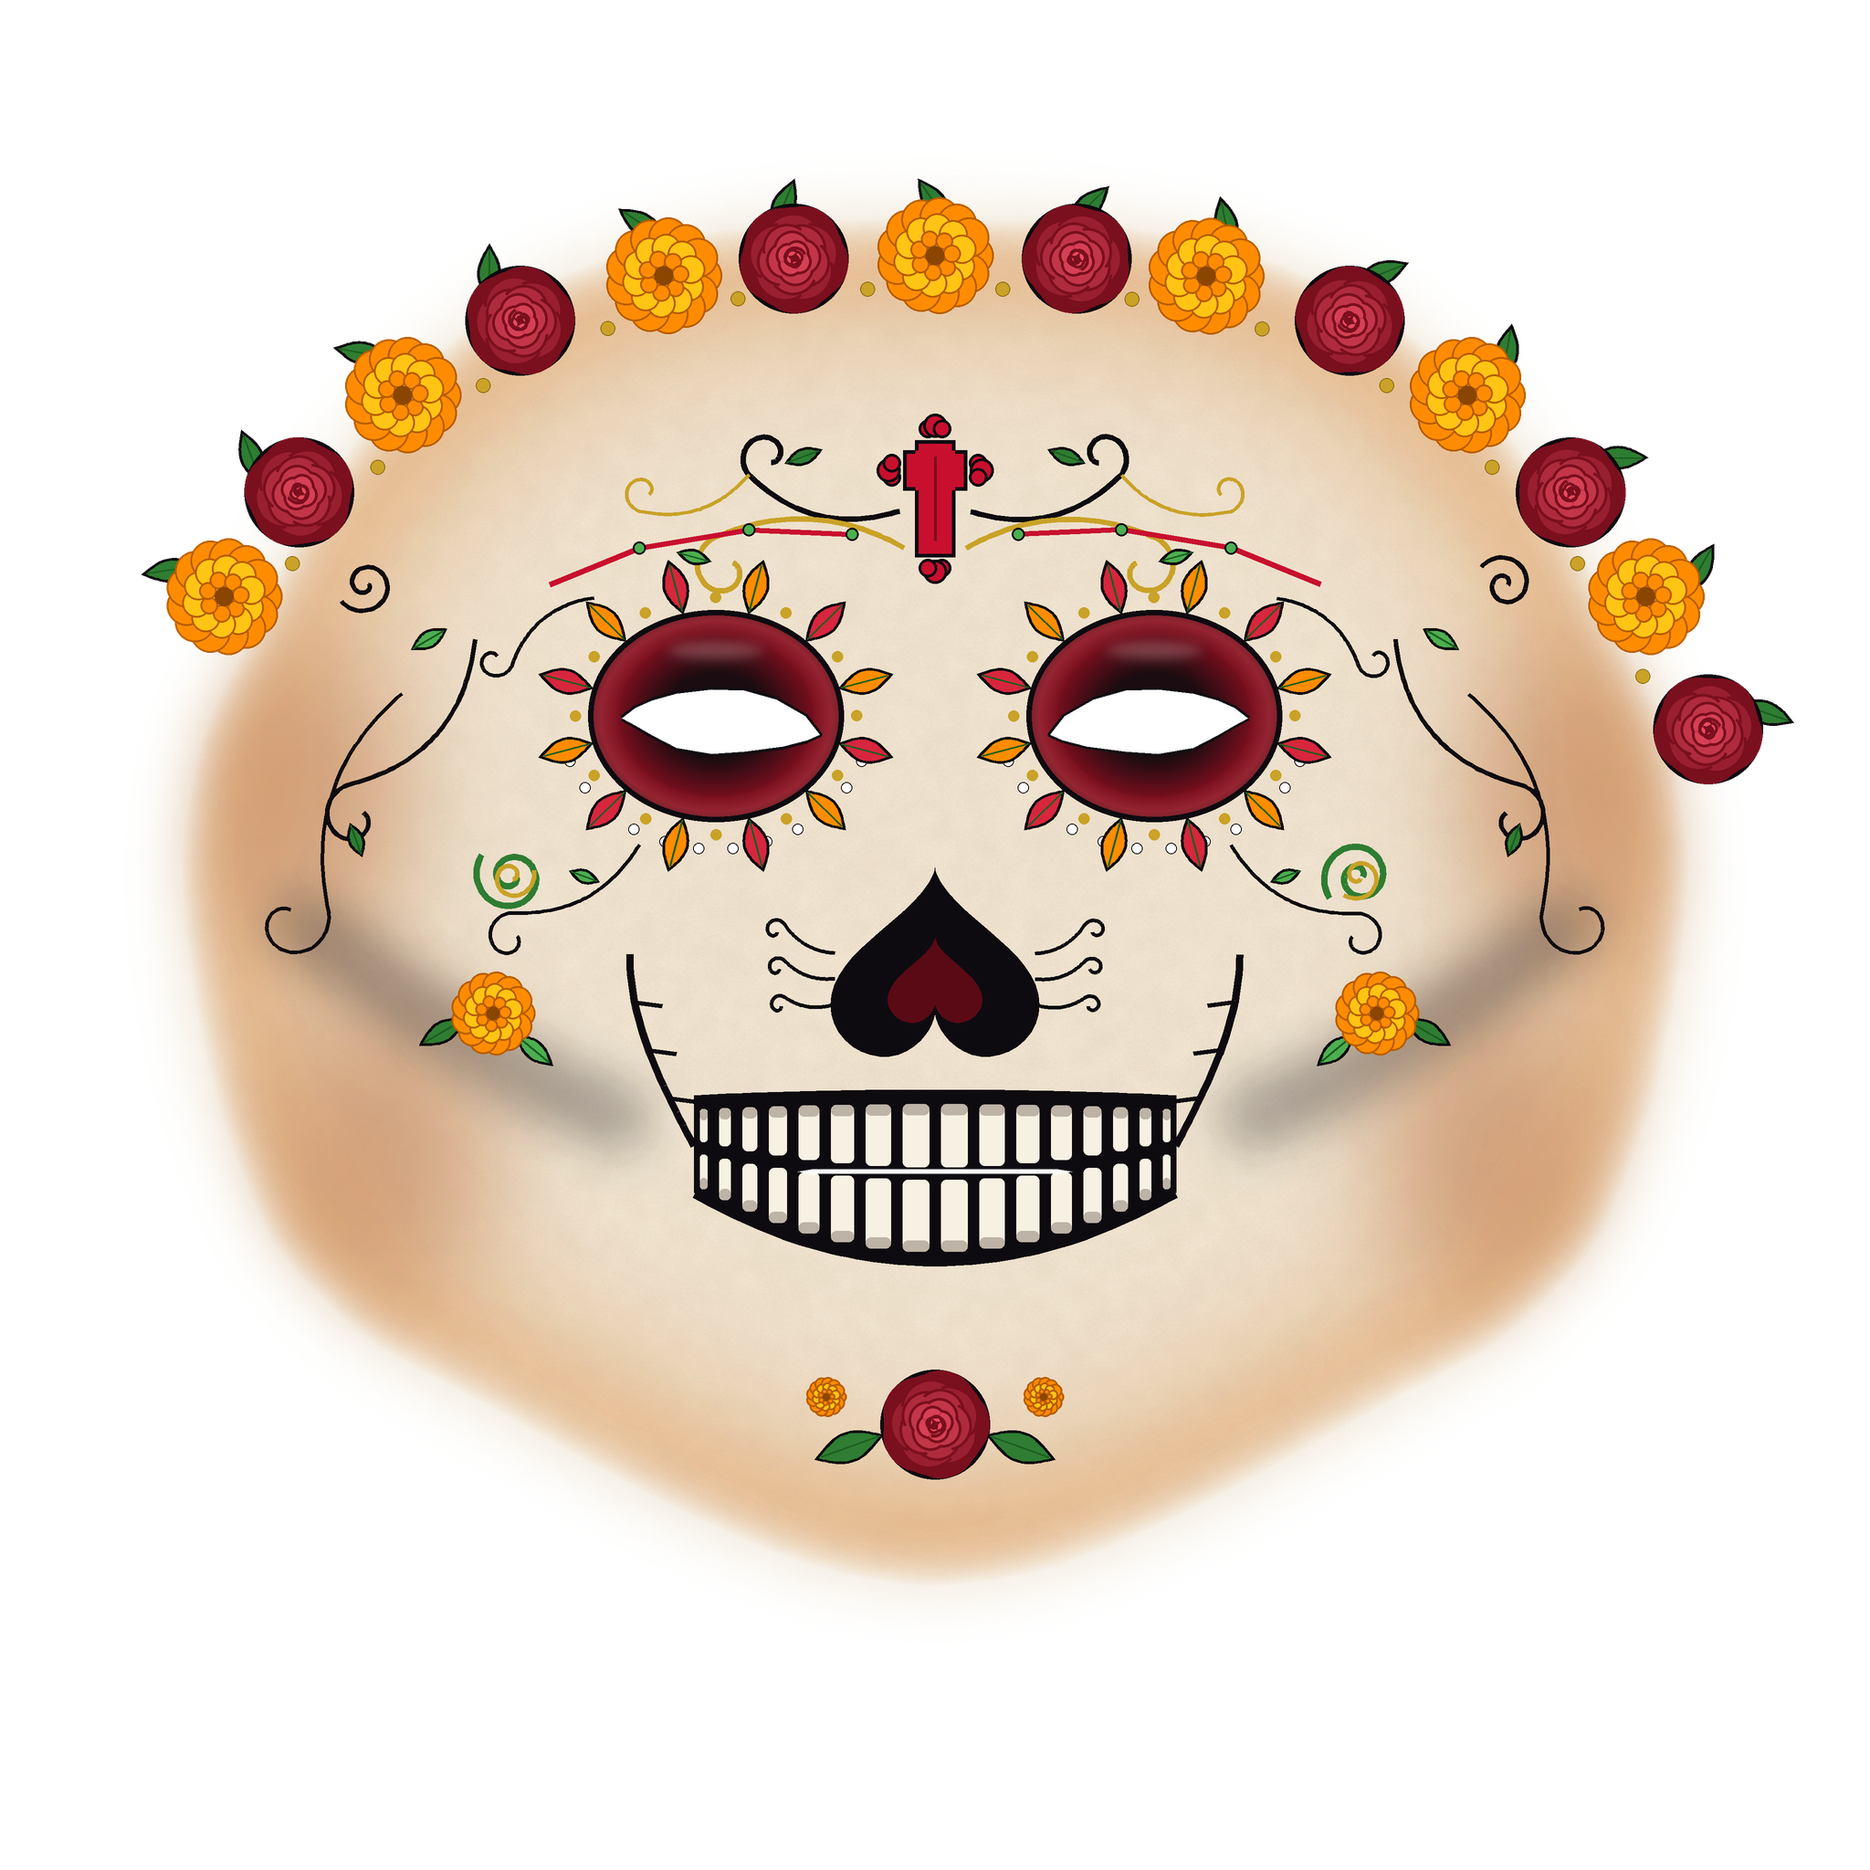
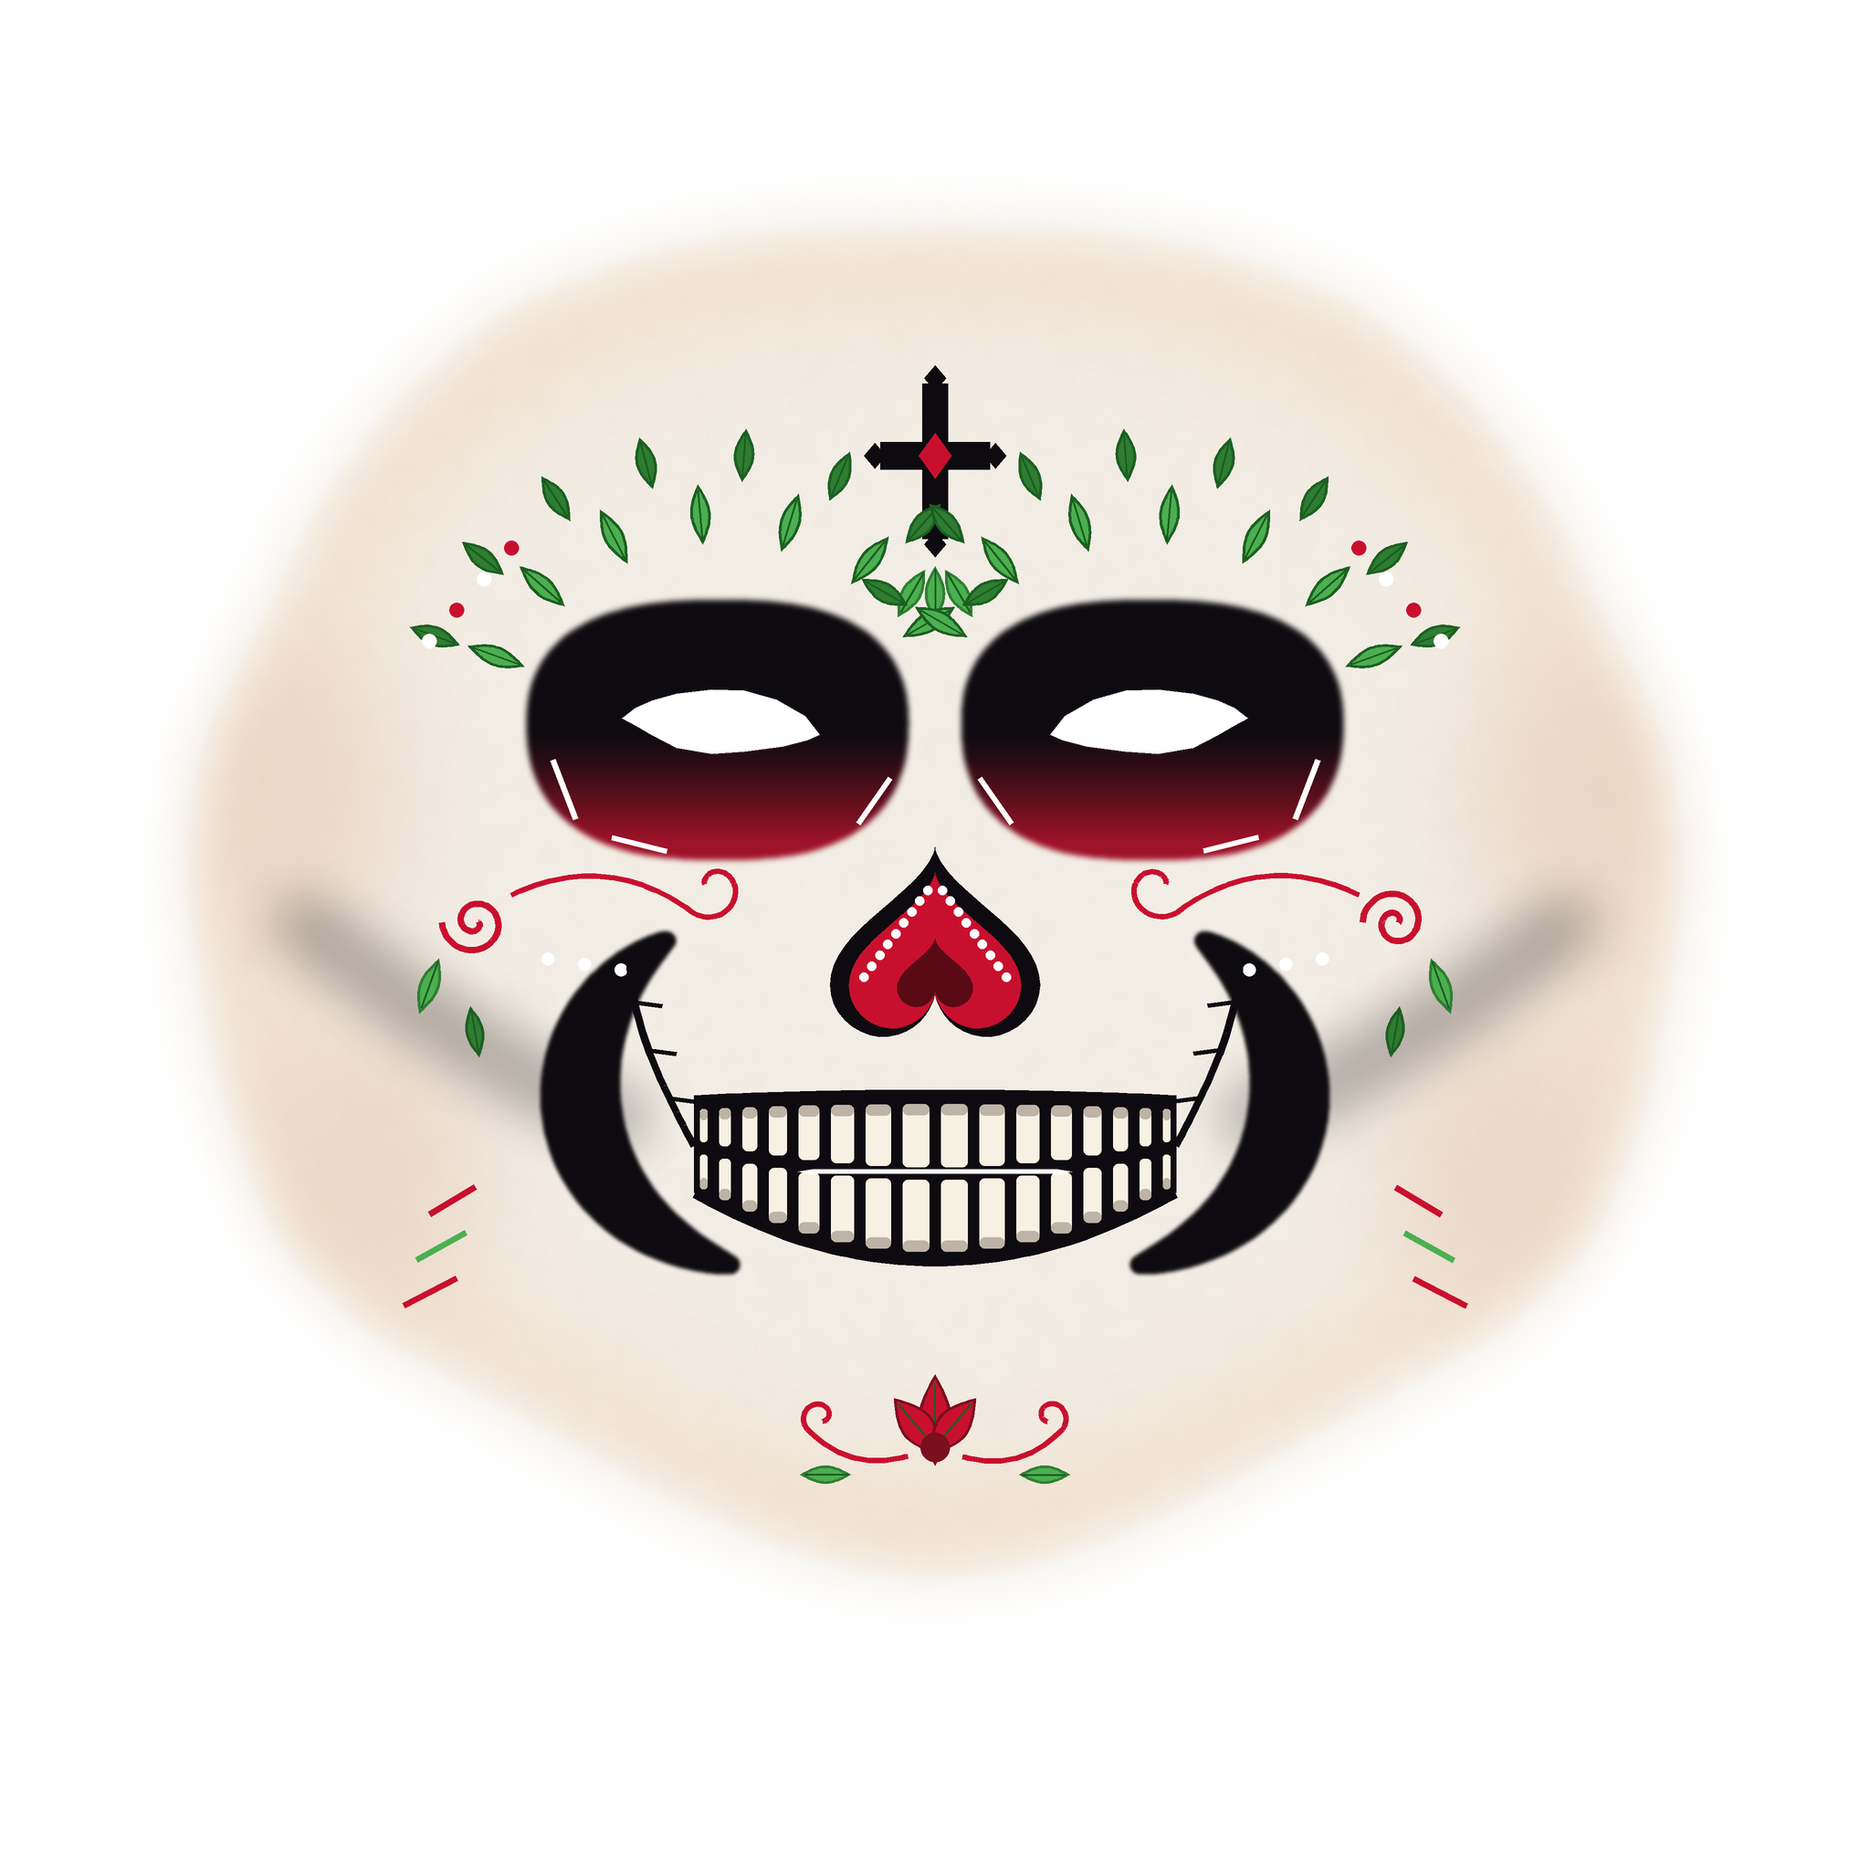
Nuevo diseño del catrín según la referencia y base más translúcida

diff --git a/tools/generar_texturas_catrines.py b/tools/generar_texturas_catrines.py
@@ -264,7 +264,14 @@ def capa_color(color, alfa):
 
 
 # ---------- elementos comunes ----------
-def base(l, color_base, intensidad_ocre):
+def base(l, color_base, intensidad_ocre, opacidad=None):
+    """Base de la calavera. opacidad < 1 deja ver más el tono de la piel."""
+    capa = Lienzo()
+    _base(capa, color_base, intensidad_ocre)
+    l.pegar(capa.img, OPACIDAD_BASE if opacidad is None else opacidad)
+
+
+def _base(l, color_base, intensidad_ocre):
     # llega hasta el borde de la cara y se desvanece suave, sin línea dura
     # en la frente sube más (hasta el nacimiento del pelo) para que no se vea cortada
     borde = []
@@ -273,7 +280,7 @@ def base(l, color_base, intensidad_ocre):
         t = 0.28 + 0.42 * w
         borde.append(lerp(p(o), p(a), t * 2) if t <= 0.5 else lerp(p(a), p(e), (t - 0.5) * 2))
     m = mascara_poligono(borde, 34 * K)
-    l.pegar(capa_color(color_base, m.point(lambda v: int(v * OPACIDAD_BASE))))
+    l.pegar(capa_color(color_base, m))
     # franja de sombreado ocre hacia el contorno (~120 px)
     interior = m.filter(ImageFilter.GaussianBlur(110 * K))
     banda = ImageChops.subtract(m, interior).point(lambda v: min(255, int(v * 2.2 * intensidad_ocre)))
@@ -325,7 +332,7 @@ def contorno_negro(l, hueco_corona=None):
     d.line(oval + oval[:1], fill=NEGRO[:3] + (200,), width=5 * K, joint="curve")
 
 
-def mejillas_hundidas(l):
+def mejillas_hundidas(l, fuerza=0.4):
     capa = l.capa()
     d = ImageDraw.Draw(capa)
     for lado in (1, -1):
@@ -335,10 +342,10 @@ def mejillas_hundidas(l):
         d.line(pts, fill=GRIS_MEJILLA, width=60 * K, joint="curve")
         elipse(d, q(X(330), 1010), 28 * K, 28 * K, fill=GRIS_MEJILLA)
     capa = capa.filter(ImageFilter.GaussianBlur(26 * K))
-    l.pegar(capa, 0.4)
+    l.pegar(capa, fuerza)
 
 
-OPACIDAD_BASE = 0.9   # la base deja ver un poco la piel
+OPACIDAD_BASE = 0.8   # la base deja ver la piel
 
 CUENCA_RX, CUENCA_RY = 140, 116   # tamaño de las cuencas (px de 2048)
 CUENCA_Y = 784
@@ -555,108 +562,145 @@ def guardar(l, nombre):
 
 # ---------- variantes ----------
 def catrin():
+    """Catrín: cuencas negras con rojo abajo, cruz negra con hojas verdes en la
+    frente, nariz de corazón rojo con puntitos, dientes grandes y mejillas
+    oscuras con filigrana roja y verde. Sin flores."""
     l = Lienzo()
-    base(l, HUESO, 1.25)
-    mejillas_hundidas(l)
-    filigrana_comun(l)
-    cuencas(l, festonear=False)
-    perlas_cuencas(l)
-    nariz(l)
+    base(l, hexa("EDE6DA"), 0.6, opacidad=0.6)
+    mejillas_hundidas(l, 0.35)
+    cuencas_catrin(l)
+    frente_catrin(l)
+    mejillas_catrin(l)
+    nariz_catrin(l)
     dientes(l)
-
-    capa = l.capa()
-    d = ImageDraw.Draw(capa)
-    # corona de pétalos alrededor de cada cuenca: rojo y naranja alternados
-    for cx in (784, 1264):
-        n = 12
-        for k in range(n):
-            a = 2 * math.pi * k / n + math.pi / n
-            bx, by = cx + math.cos(a) * (CUENCA_RX + 30), CUENCA_Y + math.sin(a) * (CUENCA_RY + 30)
-            hoja(d, q(bx, by), 62 * K, 28 * K, a, ROJO_PETALO if k % 2 == 0 else CEMPA)
-            ax, ay = cx + math.cos(a + math.pi / n) * (CUENCA_RX + 14), CUENCA_Y + math.sin(a + math.pi / n) * (CUENCA_RY + 14)
-            elipse(d, q(ax, ay), 6 * K, 6 * K, fill=DORADO)
-    # cruz latina roja con puntas de flor de lis
-    cx, top, bot = 1024, 470, 622
-    brazo_y = 515
-    w = 22
-    cruz = [(cx - w, top + 12), (cx + w, top + 12), (cx + w, brazo_y - w), (cx + 35 + 0, brazo_y - w),
-            (cx + 35, brazo_y + w), (cx + w, brazo_y + w), (cx + w, bot - 12), (cx - w, bot - 12),
-            (cx - w, brazo_y + w), (cx - 35, brazo_y + w), (cx - 35, brazo_y - w), (cx - w, brazo_y - w)]
-    d.polygon([q(*pt) for pt in cruz], fill=ROJO, outline=NEGRO, width=4 * K)
-    for (px, py, ang) in ((cx, top + 6, -90), (cx, bot - 6, 90), (cx - 41, brazo_y, 180), (cx + 41, brazo_y, 0)):
-        a = math.radians(ang)
-        for da in (-50, 0, 50):
-            b = a + math.radians(da)
-            r = 13 if da == 0 else 10
-            c = q(px + math.cos(b) * 10, py + math.sin(b) * 10)
-            elipse(d, c, r * K, r * K, fill=ROJO, outline=NEGRO, width=3 * K)
-    d.line([q(cx, top + 30), q(cx, bot - 30)], fill=ROJO_OSCURO, width=3 * K)
-    # volutas negras y doradas a los lados de la cruz, siguiendo las cejas
-    for lado in (1, -1):
-        def Q(x, y):
-            return q(x if lado == 1 else FINAL - x, y)
-        voluta(d, Q(985, 560), Q(820, 520), -0.3 * lado, NEGRO, 6 * K, sentido=lado)
-        voluta(d, Q(990, 600), Q(780, 590), 0.25 * lado, DORADO, 6 * K, sentido=-lado)
-        voluta(d, Q(820, 520), Q(700, 560), -0.3 * lado, DORADO, 4 * K, sentido=lado)
-        hoja(d, Q(880, 500), 44 * K, 19 * K, math.radians(-20 if lado == 1 else 200), VERDE)
-        hoja(d, Q(760, 610), 40 * K, 17 * K, math.radians(15 if lado == 1 else 165), VERDE_CLARO)
-        # filigrana roja y verde sobre cada ceja
-        ceja = [Q(602, 640), Q(700, 600), Q(820, 580), Q(933, 585)]
-        d.line(ceja, fill=ROJO, width=6 * K, joint="curve")
-        for k, pt in enumerate(ceja[1:]):
-            elipse(d, pt, 7 * K, 7 * K, fill=VERDE_CLARO, outline=NEGRO, width=2 * K)
-        # espiral verde y dorada en el pómulo
-        espiral(d, Q(560, 960), 40 * K, 1.6, VERDE, 7 * K, sentido=lado)
-        espiral(d, Q(560, 960), 26 * K, 1.2, DORADO, 5 * K, sentido=-lado, ang0=1.0)
-    l.pegar(capa)
-
-    # barbilla: rosa con hojas y cempasúchiles
-    capa = l.capa()
-    d = ImageDraw.Draw(capa)
-    hoja(d, q(930, 1585), 80 * K, 34 * K, math.radians(160))
-    hoja(d, q(1118, 1585), 80 * K, 34 * K, math.radians(20))
-    l.pegar(capa)
-    rosa(l, q(1024, 1560), 60 * K)
-    d = ImageDraw.Draw(l.img)
-    cempasuchil(d, q(905, 1530), 22 * K)
-    cempasuchil(d, q(1143, 1530), 22 * K)
-
-    # pómulos: cempasúchil con hojas
-    d = ImageDraw.Draw(l.img)
-    for lado in (1, -1):
-        x = 540 if lado == 1 else FINAL - 540
-        hoja(d, q(x - lado * 55, 1130), 60 * K, 24 * K, math.radians(150 if lado == 1 else 30))
-        hoja(d, q(x + lado * 45, 1150), 54 * K, 22 * K, math.radians(40 if lado == 1 else 140), VERDE_CLARO)
-        cempasuchil(d, q(x, 1110), 46 * K)
-
-    corona_catrin(l)
+    barbilla_catrin(l)
     huecos(l)
     return guardar(l, "textura_catrin.png")
 
 
-def corona_catrin(l):
-    """Banda de cempasúchiles y rosas rojas en la frente alta, con hojas y oro."""
-    arco = list(range(30, 36)) + list(range(0, 8))
+def cuencas_catrin(l):
+    """Cuencas anchas casi cuadradas: negras arriba y rojas en la parte de abajo."""
+    for lado in (1, -1):
+        cx, cy, rx, ry = (790 if lado == 1 else FINAL - 790), 792, 205, 150
+        pts = []
+        for t in range(160):
+            a = 2 * math.pi * t / 160
+            c, s_ = math.cos(a), math.sin(a)
+            x = math.copysign(abs(c) ** 0.75, c) * rx * (1.04 if c * lado < 0 else 1.0)
+            y = math.copysign(abs(s_) ** 0.85, s_) * ry * (0.9 if s_ < 0 else 1.0)
+            pts.append(q(cx + x, cy + y))
+        m = mascara_poligono(pts, 3 * K)
+        yy = np.arange(S, dtype=np.float32)[:, None] / K
+        t = np.clip((yy - (cy + 10)) / 120, 0, 1)
+        negro = np.array(NEGRO[:3], np.float32)
+        rojo = np.array(hexa("B0142C")[:3], np.float32)
+        col = negro + (rojo - negro) * (t ** 1.2)[..., None] * 0.9
+        col = np.broadcast_to(col, (S, 1, 3))
+        capa = Image.fromarray(np.repeat(col, S, axis=1).astype(np.uint8), "RGB").convert("RGBA")
+        capa.putalpha(m)
+        l.pegar(capa)
+        # brillos blancos en las orillas de abajo
+        d = ImageDraw.Draw(l.img)
+        for x0, y0, x1, y1 in ((-185, 40, -160, 105), (-120, 125, -60, 140), (150, 110, 185, 60)):
+            d.line([q(cx + x0 * lado, cy + y0), q(cx + x1 * lado, cy + y1)], fill=BLANCO, width=6 * K)
 
-    def en_anillo(k, t):
-        o, a, e = p(OVALO[k]), p(ANILLO1[k]), p(EXTERNO[k])
-        return lerp(o, a, t * 2) if t <= 0.5 else lerp(a, e, (t - 0.5) * 2)
 
+def frente_catrin(l):
     d = ImageDraw.Draw(l.img)
-    for j, k in enumerate(arco):
-        c = en_anillo(k, 0.55)
-        ang = math.atan2(c[1] - S / 2, c[0] - S / 2)
-        hoja(d, en_anillo(k, 0.78), 66 * K, 26 * K, ang + 0.6 * (1 if j % 2 else -1))
-    for j, k in enumerate(arco):
-        c = en_anillo(k, 0.5)
-        if j % 2 == 0:
-            cempasuchil(ImageDraw.Draw(l.img), c, 64 * K)
-        else:
-            rosa(l, c, 60 * K, ang=j * 0.8)
+    # cruz negra con rombo rojo al centro
+    cx, cy = 1024, 500
+    d.polygon([q(cx - 14, cy - 80), q(cx + 14, cy - 80), q(cx + 14, cy - 16), q(cx + 60, cy - 16),
+               q(cx + 60, cy + 14), q(cx + 14, cy + 14), q(cx + 14, cy + 90), q(cx - 14, cy + 90),
+               q(cx - 14, cy + 14), q(cx - 60, cy + 14), q(cx - 60, cy - 16), q(cx - 14, cy - 16)],
+              fill=NEGRO)
+    for px, py in ((cx, cy - 86), (cx, cy + 96), (cx - 66, cy - 1), (cx + 66, cy - 1)):
+        d.polygon([q(px, py - 14), q(px + 12, py), q(px, py + 14), q(px - 12, py)], fill=NEGRO)
+    d.polygon([q(cx, cy - 26), q(cx + 18, cy - 1), q(cx, cy + 24), q(cx - 18, cy - 1)], fill=ROJO)
+    # hojitas verdes bajo la cruz, entre las cejas
+    for ang, dx in ((90, 0), (120, -26), (60, 26)):
+        hoja(d, q(cx + dx, cy + 150), 60 * K, 22 * K, math.radians(ang), VERDE_CLARO, borde=VERDE)
+    # abanico de hojas verdes sobre cada ceja, como en la foto
+    for lado in (1, -1):
+        for fila, (radio, n, largo, color) in enumerate(((250, 7, 66, VERDE_CLARO), (318, 8, 58, VERDE))):
+            for k in range(n):
+                a = math.radians(200 + (330 - 200) * k / (n - 1))
+                x = 790 + math.cos(a) * radio * 1.05
+                y = 800 + math.sin(a) * radio * 0.95
+                if lado == -1:
+                    x = FINAL - x
+                ang = math.atan2(math.sin(a), math.cos(a) * lado)
+                hoja(d, q(x, y), largo * K, 22 * K, ang, color, borde=hexa("1B5E20"))
+        # puntitos rojos y blancos en la sien
+        for k in range(4):
+            x = 560 - k * 30
+            elipse(d, q(x if lado == 1 else FINAL - x, 600 + k * 34), 8 * K, 8 * K,
+                   fill=ROJO if k % 2 == 0 else BLANCO)
+
+
+def mejillas_catrin(l):
+    capa = l.capa()
+    d = ImageDraw.Draw(capa)
+    for lado in (1, -1):
+        def Q(x, y):
+            return q(x if lado == 1 else FINAL - x, y)
+        # sombra negra que baja junto a la boca, con una franja roja adentro
+        # curva suave (Bézier) más gruesa al centro, como en la foto
+        p0, p1, p2, p3 = (730, 1030), (590, 1120), (600, 1330), (800, 1385)
+        for k in range(121):
+            t = k / 120
+            x = (1 - t) ** 3 * p0[0] + 3 * (1 - t) ** 2 * t * p1[0] + 3 * (1 - t) * t ** 2 * p2[0] + t ** 3 * p3[0]
+            y = (1 - t) ** 3 * p0[1] + 3 * (1 - t) ** 2 * t * p1[1] + 3 * (1 - t) * t ** 2 * p2[1] + t ** 3 * p3[1]
+            r = 10 + 34 * math.sin(math.pi * t) ** 0.8
+            elipse(d, Q(x, y), r * K, r * K, fill=NEGRO)
+            if 0.2 < t < 0.8:
+                rr = r * 0.4
+                elipse(d, Q(x + 6, y), rr * K, rr * K, fill=hexa("8E1B2E"))
+    l.pegar(capa.filter(ImageFilter.GaussianBlur(2 * K)))
     d = ImageDraw.Draw(l.img)
-    for j, k in enumerate(arco[:-1]):
-        c = lerp(en_anillo(k, 0.3), en_anillo(arco[j + 1], 0.3), 0.5)
-        elipse(d, c, 8 * K, 8 * K, fill=DORADO, outline=hexa("8A6A10"), width=K)
+    for lado in (1, -1):
+        def Q(x, y):
+            return q(x if lado == 1 else FINAL - x, y)
+        # filigrana roja y verde en el pómulo
+        espiral(d, Q(520, 1010), 36 * K, 1.5, ROJO, 7 * K, sentido=lado)
+        voluta(d, Q(560, 980), Q(760, 1000), -0.3 * lado, ROJO, 6 * K, sentido=-lado)
+        hoja(d, Q(470, 1080), 64 * K, 22 * K, math.radians(110 if lado == 1 else 70), VERDE_CLARO, borde=VERDE)
+        hoja(d, Q(520, 1130), 56 * K, 20 * K, math.radians(80 if lado == 1 else 100), VERDE, borde=hexa("1B5E20"))
+        for k in range(3):
+            elipse(d, Q(600 + k * 40, 1050 + k * 6), 7 * K, 7 * K, fill=BLANCO)
+        # rayitas verdes y rojas hacia la mandíbula
+        for k in range(3):
+            y = 1300 + k * 50
+            d.line([Q(520 - k * 10, y), Q(470 - k * 14, y + 30)], fill=VERDE_CLARO if k % 2 else ROJO, width=7 * K)
+
+
+def nariz_catrin(l):
+    d = ImageDraw.Draw(l.img)
+    c = q(1024, 1050)
+    w = 230 * K
+    corazon(d, c, w, NEGRO, punta_arriba=True)
+    corazon(d, (c[0], c[1] + 6 * K), w * 0.82, ROJO, punta_arriba=True)
+    corazon(d, (c[0], c[1] + 22 * K), w * 0.36, hexa("5A0A14"), punta_arriba=True)
+    # puntitos blancos siguiendo el borde
+    for k in range(9):
+        t = k / 8
+        for lado in (1, -1):
+            x = 1024 + lado * (8 + 70 * t)
+            y = 975 + 95 * t
+            elipse(d, q(x, y), 5 * K, 5 * K, fill=BLANCO)
+
+
+def barbilla_catrin(l):
+    d = ImageDraw.Draw(l.img)
+    cx, cy = 1024, 1585
+    for ang, largo in ((-90, 100), (-130, 80), (-50, 80)):
+        hoja(d, q(cx + math.cos(math.radians(ang)) * 30, cy + math.sin(math.radians(ang)) * 30), largo * K,
+             36 * K, math.radians(ang), ROJO, borde=hexa("7A0F1E"))
+    elipse(d, q(cx, cy), 16 * K, 16 * K, fill=ROJO_OSCURO)
+    for lado in (1, -1):
+        voluta(d, q(cx + lado * 30, cy + 10), q(cx + lado * 140, cy - 20), 0.3 * lado, ROJO, 6 * K,
+               sentido=-lado)
+        hoja(d, q(cx + lado * 120, cy + 30), 56 * K, 20 * K, math.radians(0 if lado == 1 else 180),
+             VERDE_CLARO, borde=VERDE)
 
 
 def catrina():
